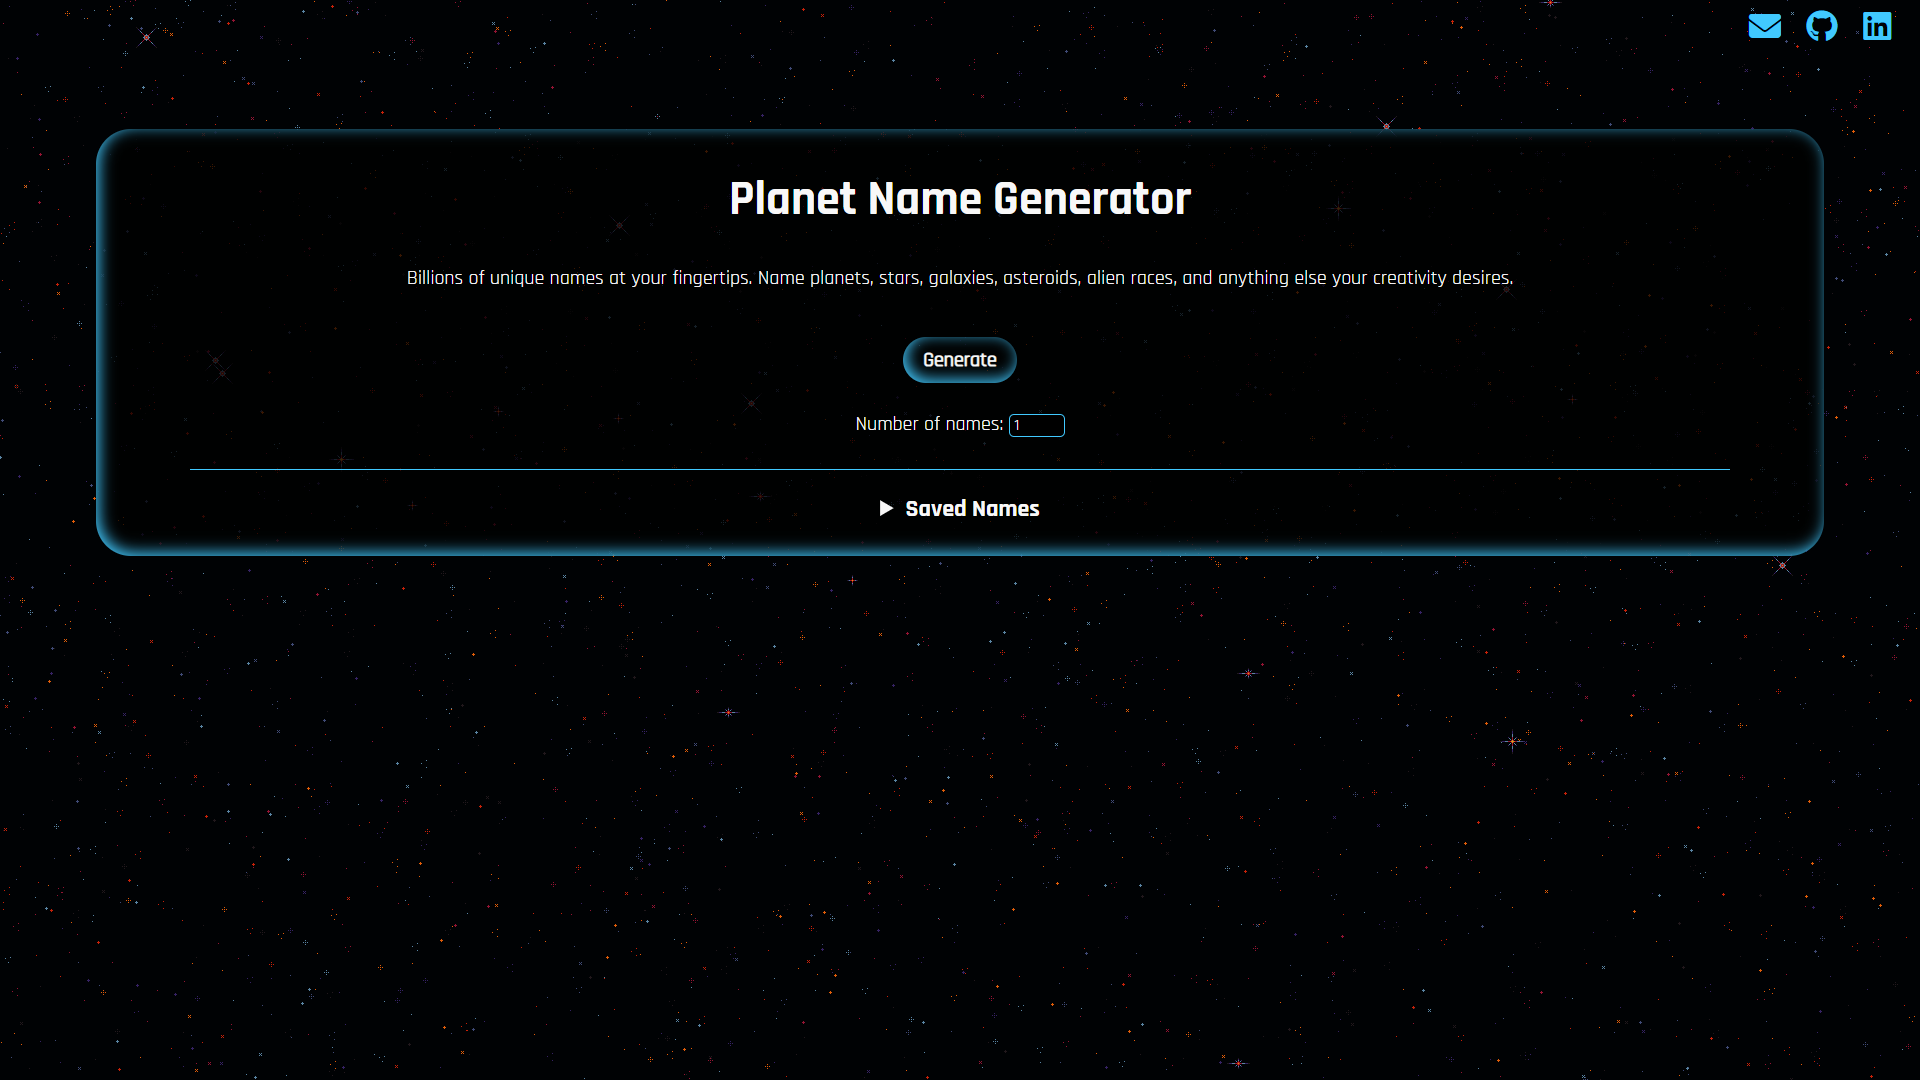
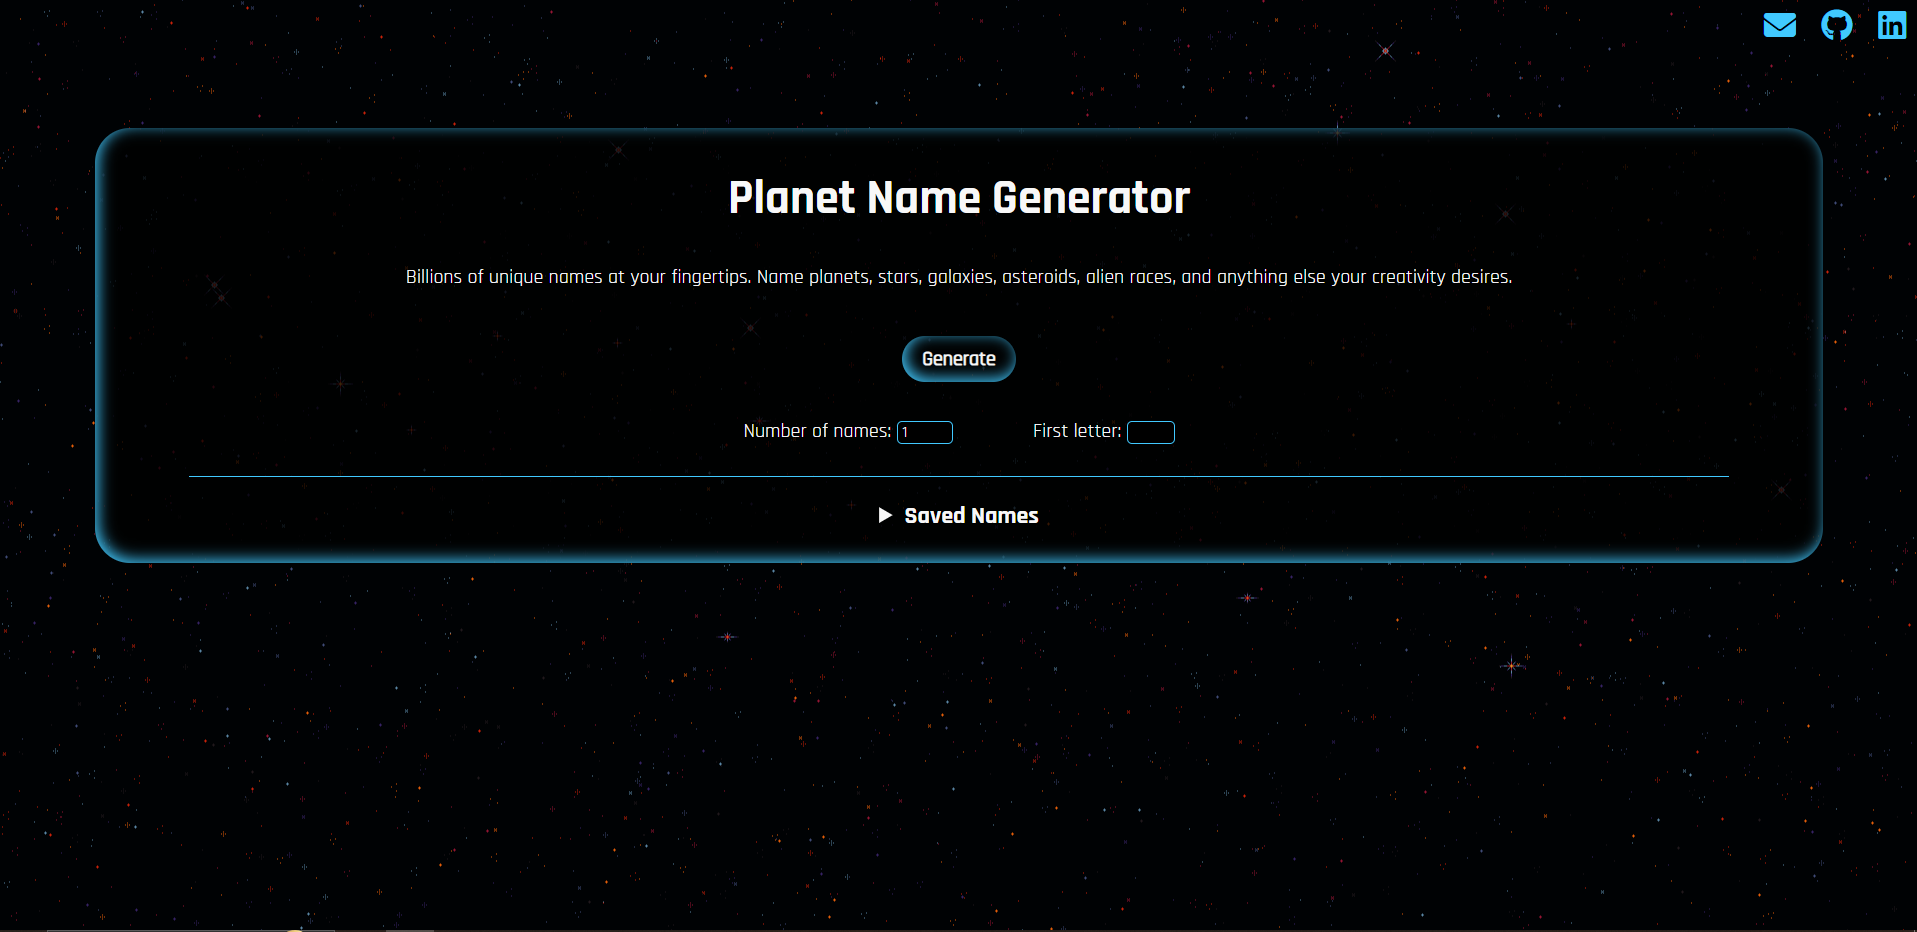
Added option to specify first letter of generated names

diff --git a/PlanetNameGenerator/style.css b/PlanetNameGenerator/style.css
@@ -2,10 +2,7 @@
     font-family: 'Rajdhani', 'Segoe UI', Tahoma, Geneva, Verdana, sans-serif;
 }
 
-::selection {
-    background: rgb(0, 144, 201);
-}
-
+::selection,
 ::-moz-selection {
     background: rgb(0, 144, 201);
 }
@@ -19,6 +16,10 @@ body {
     background-size: cover;
 }
 
+ul {
+    list-style-type: none;
+}
+
 .fa {
     color: var(--space-color);
 }
@@ -30,7 +31,6 @@ header {
 header ul {
     list-style: none;
     margin-right: 0;
-    padding-right: 1em;
     padding-top: 0.5em;
     color: var(--space-color);
     display: flex;
@@ -41,6 +41,14 @@ header ul {
 header li {
     font-size: 2em;
     padding: 0 0.4em;
+}
+
+header li a {
+    transition: 0.25s ease-out;
+}
+
+header li a:hover {
+    opacity: 0.5;
 }
 
 #section-1 {
@@ -70,7 +78,6 @@ h1 {
 
 #names {
     padding: 0.5em 0;
-    list-style-type: none;
     display: block;
     align-items: center;
     justify-content: space-evenly;
@@ -139,7 +146,14 @@ button {
 }
 
 form {
-    padding: 0.5em 0 1em 0;
+    padding: 1em;
+    margin: 0 auto;
+    max-width: 35em;
+    display: flex;
+    align-items: center;
+    justify-content: space-evenly;
+    flex-wrap: wrap;
+    gap: 2em;
 }
 
 input {
@@ -150,6 +164,10 @@ input {
     background-color: black;
     border: 1px solid var(--space-color);
     border-radius: 5px;
+}
+
+#first-letter {
+    width: 3em;
 }
 
 hr {
@@ -174,10 +192,6 @@ summary {
     font-weight: bold;
     font-family: 'Rajdhani Bold', 'Rajdhani', 'Segoe UI', Tahoma, Geneva, Verdana, sans-serif;
     cursor: pointer;
-}
-
-#saved-names-list {
-    list-style-type: none;
 }
 
 #saved-names-list li {

diff --git a/PlanetNameGenerator/src/planet-name-generator.js b/PlanetNameGenerator/src/planet-name-generator.js
@@ -2,7 +2,8 @@
 
 const GENERATOR_BTN = document.getElementById("generate");
 const NAMES_LIST = document.getElementById("names");
-const NUM_NAMES = document.getElementById("numNames");
+const NUM_NAMES = document.getElementById("num-names");
+const FIRST_LETTER = document.getElementById("first-letter");
 const SAVED_NAMES = document.getElementById("saved-names");
 const SAVED_NAMES_LIST = document.getElementById("saved-names-list");
 const MAX_NAMES = Number(NUM_NAMES.max);
@@ -104,8 +105,27 @@ function deleteSavedName(name) {
     loadNames();
 }
 
+/**
+ * Checks if a char is a letter
+ * 
+ * @param {string} char The char to check
+ * 
+ * @return {boolean} Whether the char is a letter or not
+ */
+function isLetter(char) {
+    return /[a-z]/i.test(char);
+}
+
 GENERATOR_BTN.addEventListener("click", () => {
     let numNames = Number(NUM_NAMES.value);
+    let firstLetter = FIRST_LETTER.value[0];
+
+    if (firstLetter && isLetter(firstLetter)) {
+        firstLetter = FIRST_LETTER.value[0].toUpperCase();
+    }
+    else {
+        firstLetter = "";
+    }
     
     clearNames();
     
@@ -138,7 +158,7 @@ GENERATOR_BTN.addEventListener("click", () => {
         let copyIcon = document.createElement("h3");
         let starIcon = document.createElement("h3");
 
-        name.innerHTML = generator.generateName();
+        name.innerHTML = generator.generateName(firstLetter);
         
         copyIcon.innerHTML = '<i class="fa-regular fa-copy"></i>';
         copyIcon.onclick = () => {

diff --git a/PlanetNameGenerator/src/prefix.js b/PlanetNameGenerator/src/prefix.js
@@ -426,6 +426,42 @@ class Prefix {
     }
 
     /**
+     * Gets a random prefix that starts with a specific letter
+     * 
+     * @param letter The letter the prefix starts with
+     * 
+     * @return {string} The prefix
+     */
+    getPrefixWithFirstLetter(letter) {
+        let lastArray = this.#prefixes[this.#prefixes.length - 1];
+        let letterPrefixArray = [];
+        let complexPrefixes = [];
+        let prefix;
+        
+        for (let i = 0; i < this.#prefixes.length; i++) {
+            if (this.#prefixes[i][0].charAt(0) == letter) {
+                letterPrefixArray = [...this.#prefixes[i]];
+                break;
+            }
+        }
+
+        for (let i = 0; i < lastArray.length; i++) {
+            if (lastArray[i].charAt(0) == letter) {
+                complexPrefixes.push(lastArray[i]);
+            }
+        }
+        
+        if (Math.random() < 0.1) {
+            prefix = complexPrefixes[Math.floor(Math.random() * complexPrefixes.length)];
+        }
+        else {
+            prefix = letterPrefixArray[Math.floor(Math.random() * letterPrefixArray.length)];
+        }
+        
+        return prefix;
+    }
+
+    /**
      * Gets the amount of total prefixes
      * 
      * @return {number} The total number of possible prefixes

diff --git a/PlanetNameGenerator/src/generator.js b/PlanetNameGenerator/src/generator.js
@@ -11,9 +11,11 @@ class Generator {
     /**
      * Generates a random name by combining word parts together
      * 
+     * @param {string} letter Optional letter that the name should start with
+     * 
      * @return {string} The generated name
      */
-    generateName() {
+    generateName(letter) {
         let nameStrings = [];
         let prefix = this.prefix.getPrefix();
         let middlePart1 = "";
@@ -22,8 +24,13 @@ class Generator {
         let suffix = "";
         let name = "";
 
-        nameStrings.push(prefix);
-
+        if (letter != "") {
+            nameStrings.push(this.prefix.getPrefixWithFirstLetter(letter));
+        }
+        else {
+            nameStrings.push(prefix);
+        }
+        
         if (Math.random() < 0.5) {
             do {
                 middlePart1 = this.middlePart.getMiddlePart();

diff --git a/PlanetNameGenerator/index.html b/PlanetNameGenerator/index.html
@@ -37,7 +37,8 @@
                     <ul id="names"></ul>
                     <button id="generate">Generate</button>
                     <form>
-                        <label for="numNames">Number of names: <input id="numNames" type="number" name="numNames" min="1" max="100" value="1"></label>
+                        <label for="num-names">Number of names: <input id="num-names" type="number" name="num-names" min="1" max="100" value="1"></label>
+                        <label for="first-letter">First letter: <input id="first-letter" type="text" name="first-letter"></label>
                     </form>
                     <hr>
                     <details>
